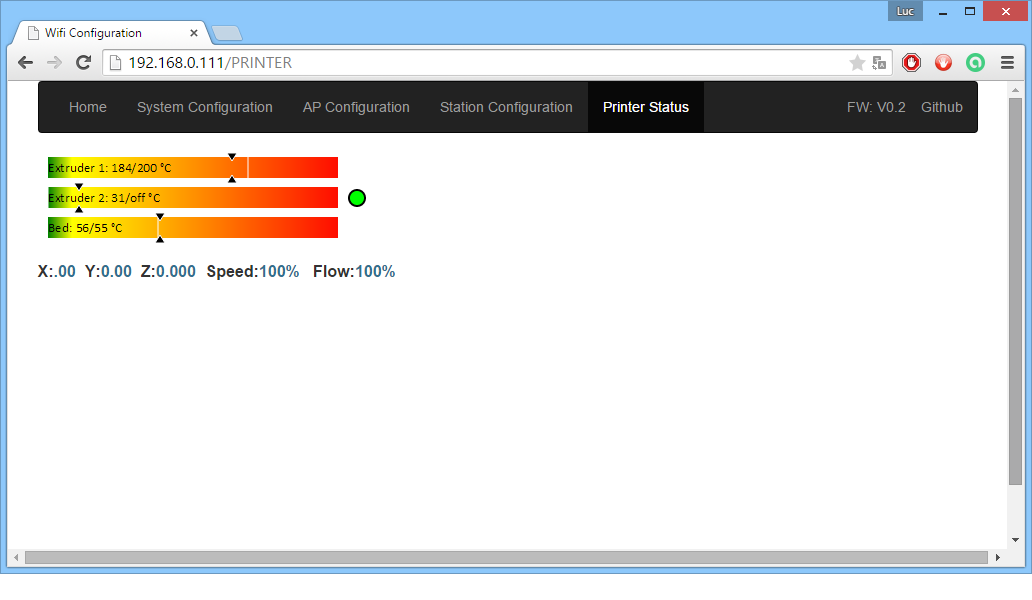
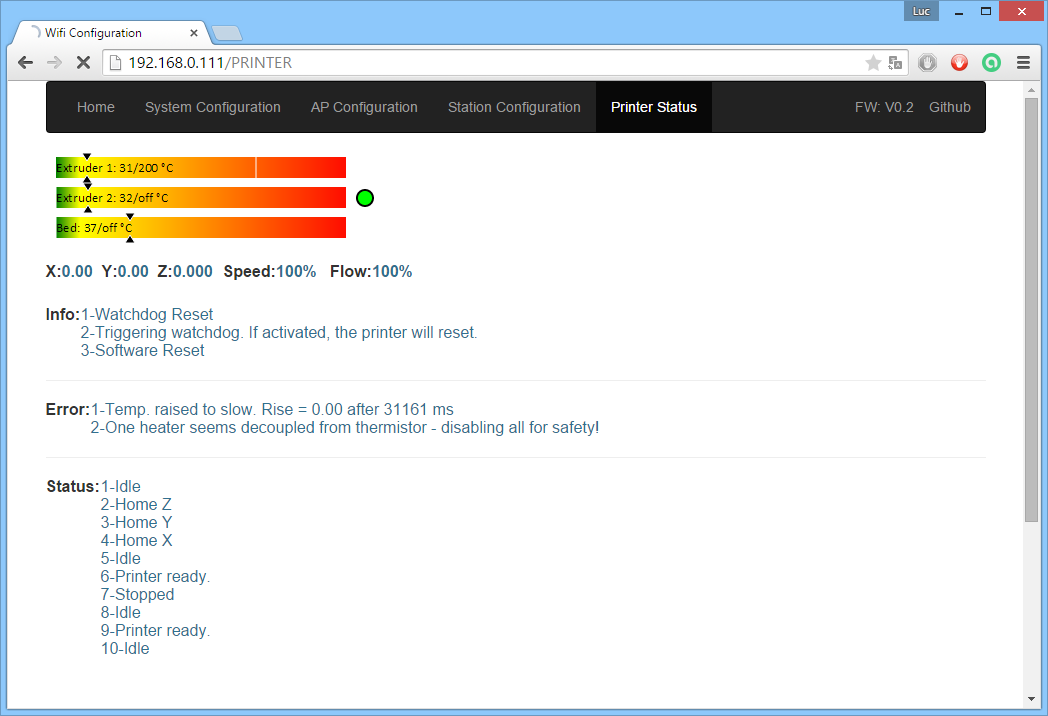
Add Support for Error/Info/Status message
allows to store and display : the 10 last error messages , the last info
messages, and the 10 last status changes

diff --git a/esp8266/webinterface.cpp b/esp8266/webinterface.cpp
@@ -257,6 +257,9 @@ const char PRINTER_1b[]PROGMEM ="<TD ID=\"status\" NAME=\"status\" ></TD><TR></T
 const char PRINTER_1c[]PROGMEM ="<BR><TABLE BORDER=0><TR><TD ID=\"position\" NAME=\"position\"></TD>\n";
 const char PRINTER_1d[]PROGMEM ="<TD><LABEL>Speed:</LABEL><LABEL ID=\"speed\" NAME=\"speed\" class=\"text-info\"></LABEL><LABEL class=\"text-info\">&#37;</LABEL>&nbsp;&nbsp;\n";
 const char PRINTER_1e[]PROGMEM ="<LABEL>Flow:</LABEL><LABEL ID=\"flow\" NAME=\"flow\" class=\"text-info\"></LABEL><LABEL class=\"text-info\">&#37;</LABEL></TD></TR></TABLE><BR>\n";
+const char PRINTER_1f[]PROGMEM ="<TABLE BORDER=0><TR style=\"vertical-align:top\" ><TD><LABEL>Info:</LABEL></TD><TD ID=\"infomsg\" NAME=\"infomsg\" class=\"text-info\"></TD></TR></TABLE><HR>\n";
+const char PRINTER_1g[]PROGMEM ="<TABLE BORDER=0><TR style=\"vertical-align:top\"><TD><LABEL>Error:</LABEL></TD><TD ID=\"errormsg\" NAME=\"errormsg\" class=\"text-info\"></TD></TR></TABLE><HR>\n";
+const char PRINTER_1h[]PROGMEM ="<TABLE BORDER=0><TR style=\"vertical-align:top\"><TD><LABEL>Status:</LABEL></TD><TD ID=\"statusmsg\" NAME=\"statusmsg\" class=\"text-info\"></TD></TR></TABLE>\n";
 
 const char PRINTER_2[]PROGMEM ="<iframe ID=\"dataframe\" NAME=\"dataframe\"src=\"http://";
 const char PRINTER_3[]PROGMEM ="/STATUS\" frameborder=0 width=\"320\" height=\"300\" style=\"visibility:hidden;\"></iframe>\n";
@@ -267,12 +270,18 @@ const char PRINTER_6b[]PROGMEM ="document.getElementById(\"position\").innerHTML
 const char PRINTER_6c[]PROGMEM ="document.getElementById(\"speed\").innerHTML=doc.getElementById(\"speed\").innerHTML;\n";
 const char PRINTER_6d[]PROGMEM ="document.getElementById(\"flow\").innerHTML=doc.getElementById(\"flow\").innerHTML;\n";
 const char PRINTER_6e[]PROGMEM ="document.getElementById(\"status\").innerHTML=doc.getElementById(\"status\").innerHTML;\n";
+const char PRINTER_6f[]PROGMEM ="document.getElementById(\"infomsg\").innerHTML=doc.getElementById(\"infomsg\").innerHTML;\n";
+const char PRINTER_6g[]PROGMEM ="document.getElementById(\"errormsg\").innerHTML=doc.getElementById(\"errormsg\").innerHTML;\n";
+const char PRINTER_6h[]PROGMEM ="document.getElementById(\"statusmsg\").innerHTML=doc.getElementById(\"statusmsg\").innerHTML;\n";
 const char PRINTER_7[]PROGMEM ="}\n";
 const char PRINTER_8[]PROGMEM ="setInterval(function(){";
 const char PRINTER_9[]PROGMEM ="var ifrm=document.getElementById(\"dataframe\");var doc=ifrm.contentDocument?ifrm.contentDocument:ifrm.contentWindow.document;";
 const char PRINTER_10[]PROGMEM ="doc.location.reload(true);";
 const char PRINTER_11[]PROGMEM ="},2000);\n";
 const char PRINTER_12[]PROGMEM ="</SCRIPT>\n";
+const char DIV_ERRORMSG[]PROGMEM ="<DIV ID=\"errormsg\" NAME=\"errormsg\">\n";
+const char DIV_INFOMSG[]PROGMEM ="<DIV ID=\"infomsg\" NAME=\"infomsg\">\n";
+const char DIV_STATUSMSG[]PROGMEM ="<DIV ID=\"statusmsg\" NAME=\"statusmsg\">\n";
 
 #define TEMP_SVG(temperature,target,description) buffer2send+=(PROGMEM2CHAR(TEMP_SVG_1));buffer2send+=(PROGMEM2CHAR(TEMP_SVG_2));buffer2send+=(PROGMEM2CHAR(TEMP_SVG_3));buffer2send+=(PROGMEM2CHAR(TEMP_SVG_4));buffer2send+=(PROGMEM2CHAR(TEMP_SVG_5));buffer2send+=String(target+10); buffer2send+=(PROGMEM2CHAR(TEMP_SVG_6));buffer2send+=String(target+10); buffer2send+=(PROGMEM2CHAR(TEMP_SVG_7));buffer2send+=(PROGMEM2CHAR(TEMP_SVG_8));buffer2send+=String(temperature+5);buffer2send+=(PROGMEM2CHAR(TEMP_SVG_9));buffer2send+=String(temperature+15);buffer2send+=(PROGMEM2CHAR(TEMP_SVG_10));buffer2send+=String(temperature+10);buffer2send+=(PROGMEM2CHAR(TEMP_SVG_11));buffer2send+=String(temperature+5);buffer2send+=(PROGMEM2CHAR(TEMP_SVG_12));buffer2send+=String(temperature+15);buffer2send+=(PROGMEM2CHAR(TEMP_SVG_13));buffer2send+=String(temperature+10);buffer2send+=(PROGMEM2CHAR(TEMP_SVG_14));buffer2send+=description;buffer2send+=(PROGMEM2CHAR(TEMP_SVG_15));buffer2send+=(PROGMEM2CHAR(TEMP_SVG_16));
 
@@ -1440,6 +1449,9 @@ void handle_web_interface_printer()
   buffer2send+=(PROGMEM2CHAR(PRINTER_1c));
   buffer2send+=(PROGMEM2CHAR(PRINTER_1d));
   buffer2send+=(PROGMEM2CHAR(PRINTER_1e));
+  buffer2send+=(PROGMEM2CHAR(PRINTER_1f));
+  buffer2send+=(PROGMEM2CHAR(PRINTER_1g));
+  buffer2send+=(PROGMEM2CHAR(PRINTER_1h));
   buffer2send+=(PROGMEM2CHAR(PRINTER_2));
   buffer2send+=stmp.c_str();
   buffer2send+=(PROGMEM2CHAR(PRINTER_3));
@@ -1450,6 +1462,9 @@ void handle_web_interface_printer()
   buffer2send+=(PROGMEM2CHAR(PRINTER_6c));
   buffer2send+=(PROGMEM2CHAR(PRINTER_6d));
   buffer2send+=(PROGMEM2CHAR(PRINTER_6e));
+  buffer2send+=(PROGMEM2CHAR(PRINTER_6f));
+  buffer2send+=(PROGMEM2CHAR(PRINTER_6g));
+  buffer2send+=(PROGMEM2CHAR(PRINTER_6h));
   buffer2send+=(PROGMEM2CHAR(PRINTER_7));
   buffer2send+=(PROGMEM2CHAR(PRINTER_8));
   buffer2send+=(PROGMEM2CHAR(PRINTER_9));
@@ -1558,6 +1573,41 @@ void handle_web_interface_status()
 	buffer2send+=(PROGMEM2CHAR(DIV_E));
 	buffer2send+=(PROGMEM2CHAR(DIV_STATUS));
 	STATUS_SVG(status_color)
+	buffer2send+=(PROGMEM2CHAR(DIV_E));
+	int p=1;
+	buffer2send+=(PROGMEM2CHAR(DIV_INFOMSG));
+	if (web_interface->info_msg.get_used_max_index()>-1)
+	for (int i=web_interface->info_msg.get_used_max_index();i>=0;i--)
+		{
+			buffer2send+=String(p);
+			buffer2send+="-";
+			p++;
+			buffer2send+=web_interface->info_msg.get_index_at(i);
+			buffer2send+=(PROGMEM2CHAR(BR));
+		}
+	buffer2send+=(PROGMEM2CHAR(DIV_E));
+	p=1;
+	buffer2send+=(PROGMEM2CHAR(DIV_ERRORMSG));
+	if (web_interface->error_msg.get_used_max_index()>-1)
+	for (int i=web_interface->error_msg.get_used_max_index();i>=0;i--)
+		{
+			buffer2send+=String(p);
+			buffer2send+="-";
+			p++;
+			buffer2send+=web_interface->error_msg.get_index_at(i);
+			buffer2send+=(PROGMEM2CHAR(BR));
+		}
+	buffer2send+=(PROGMEM2CHAR(DIV_E));
+	p=1;
+	buffer2send+=(PROGMEM2CHAR(DIV_STATUSMSG));
+	if (web_interface->status_msg.get_used_max_index()>-1)
+	for (int i=web_interface->status_msg.get_used_max_index();i>=0;i--)
+		{	buffer2send+=String(p);
+			buffer2send+="-";
+			p++;
+			buffer2send+=web_interface->status_msg.get_index_at(i);
+			buffer2send+=(PROGMEM2CHAR(BR));
+		}
 	buffer2send+=(PROGMEM2CHAR(DIV_E));
 	buffer2send+=(PROGMEM2CHAR(DATA_E));
 	web_interface->WebServer.send(200, "text/html", buffer2send);

diff --git a/esp8266/storestrings.cpp b/esp8266/storestrings.cpp
@@ -1,0 +1,69 @@
+/* 
+  storestrings.cpp - rolling storage class
+
+  Copyright (c) 2014 Luc Lebosse. All rights reserved.
+ 
+  This library is free software; you can redistribute it and/or
+  modify it under the terms of the GNU Lesser General Public
+  License as published by the Free Software Foundation; either
+  version 2.1 of the License, or (at your option) any later version.
+
+  This library is distributed in the hope that it will be useful,
+  but WITHOUT ANY WARRANTY; without even the implied warranty of
+  MERCHANTABILITY or FITNESS FOR A PARTICULAR PURPOSE.  See the GNU
+  Lesser General Public License for more details.
+
+  You should have received a copy of the GNU Lesser General Public
+  License along with this library; if not, write to the Free Software
+  Foundation, Inc., 51 Franklin St, Fifth Floor, Boston, MA  02110-1301  USA
+*/
+#include "storestrings.h"
+#define MAX_STORAGE 20
+
+STORESTRINGS_CLASS::STORESTRINGS_CLASS (uint8_t size){
+
+	storage_size = (size<MAX_STORAGE)?size:MAX_STORAGE;
+	storage = new String[storage_size];
+	storage_cursor=0;
+}
+
+STORESTRINGS_CLASS::~STORESTRINGS_CLASS (){
+	 delete storage;
+	 storage_size = 0;
+}
+
+bool STORESTRINGS_CLASS::add (const char * string){
+	//check if if there is something to add
+	if (strlen(string)> 0 )
+	{	//is current cursor available or need a shift
+		if (storage_cursor > storage_size-1)
+		{
+			for (uint i=0;i<storage_size-1;i++)
+				{
+				storage[i]=storage[i+1];
+				}
+			storage_cursor--;
+		}
+		storage[storage_cursor]=String(string);
+		storage_cursor++;
+		
+	}
+	else return false;
+}
+
+String STORESTRINGS_CLASS::get_index_at(uint pos)
+{
+	if (pos > storage_size-1) return storage[storage_size-1];
+	else return storage[pos];
+}
+
+uint STORESTRINGS_CLASS::get_size()
+{
+	return storage_size;
+}
+
+int STORESTRINGS_CLASS::get_used_max_index()
+{
+if (storage_cursor > storage_size-1) return storage_size-1;
+else return storage_cursor-1;	
+}

diff --git a/esp8266/storestrings.h b/esp8266/storestrings.h
@@ -1,5 +1,5 @@
 /* 
-  webinterface.h - esp8266 configuration class
+  storestrings.h - rolling storage class
 
   Copyright (c) 2014 Luc Lebosse. All rights reserved.
  
@@ -18,37 +18,23 @@
   Foundation, Inc., 51 Franklin St, Fifth Floor, Boston, MA  02110-1301  USA
 */
 
-#ifndef WEBINTERFACE_h
-#define WEBINTERFACE_h
+#ifndef STORESTRINGS_h
+#define STORESTRINGS_h
 #include <Arduino.h>
-#include <WiFiClient.h>
-#include <WiFiServer.h>
-#include <ESP8266WebServer.h>
-#include "storestrings.h"
 
-#define MAX_EXTRUDERS 4
-
-class WEBINTERFACE_CLASS
+class STORESTRINGS_CLASS
 {
   public:
-  WEBINTERFACE_CLASS (int port = 80);
-  ESP8266WebServer WebServer;
-  void urldecode(char *dst, const char *src);
-  bool isSSIDValid(const char * ssid);
-  bool isPasswordValid(const char * password);
-  bool isIPValid(const char * IP);
-  String answer4M105;
-  String answer4M114;
-  String answer4M220;
-  String answer4M221;
-  uint32_t last_temp;
-  STORESTRINGS_CLASS error_msg;
-  STORESTRINGS_CLASS info_msg;
-  STORESTRINGS_CLASS status_msg;
+  STORESTRINGS_CLASS (uint8_t size = 10);
+  ~STORESTRINGS_CLASS ();
+  bool add (const char * string);
+  String get_index_at(uint pos);
+  uint get_size();
+  int get_used_max_index();
   private:
-
+  String * storage;
+  uint storage_size;
+  uint storage_cursor;
 };
-
-extern WEBINTERFACE_CLASS * web_interface;
 
 #endif

diff --git a/esp8266/command.cpp b/esp8266/command.cpp
@@ -54,6 +54,9 @@ void COMMAND::check_command(String buffer)
 	int Zpos = buffer.indexOf("Z:");
 	int Speedpos = buffer.indexOf("SpeedMultiply:");
 	int Flowpos = buffer.indexOf("FlowMultiply:");
+	int Errorpos= buffer.indexOf("Error:");
+	int Infopos= buffer.indexOf("Info:");
+	int Statuspos= buffer.indexOf("Status:");
 	if (ESPpos>-1)
 		{//is there the second part?
 		int ESPpos2 = buffer.indexOf("]",ESPpos);	
@@ -90,6 +93,12 @@ void COMMAND::check_command(String buffer)
 	if (Speedpos>-1)web_interface->answer4M220=buffer.substring(Speedpos+14);
 	//Flow
 	if (Flowpos>-1)web_interface->answer4M221=buffer.substring(Flowpos+13);
+	//Error
+	if (Errorpos>-1 && !(buffer.indexOf("Format error")!=-1 || buffer.indexOf("wait")==Errorpos+6) )(web_interface->error_msg).add(buffer.substring(Errorpos+6).c_str());
+	//Info
+	if (Infopos>-1)(web_interface->info_msg).add(buffer.substring(Infopos+5).c_str());
+	//Status
+	if (Statuspos>-1)(web_interface->status_msg).add(buffer.substring(Statuspos+7).c_str());
 }
 
 //read a buffer in an array
